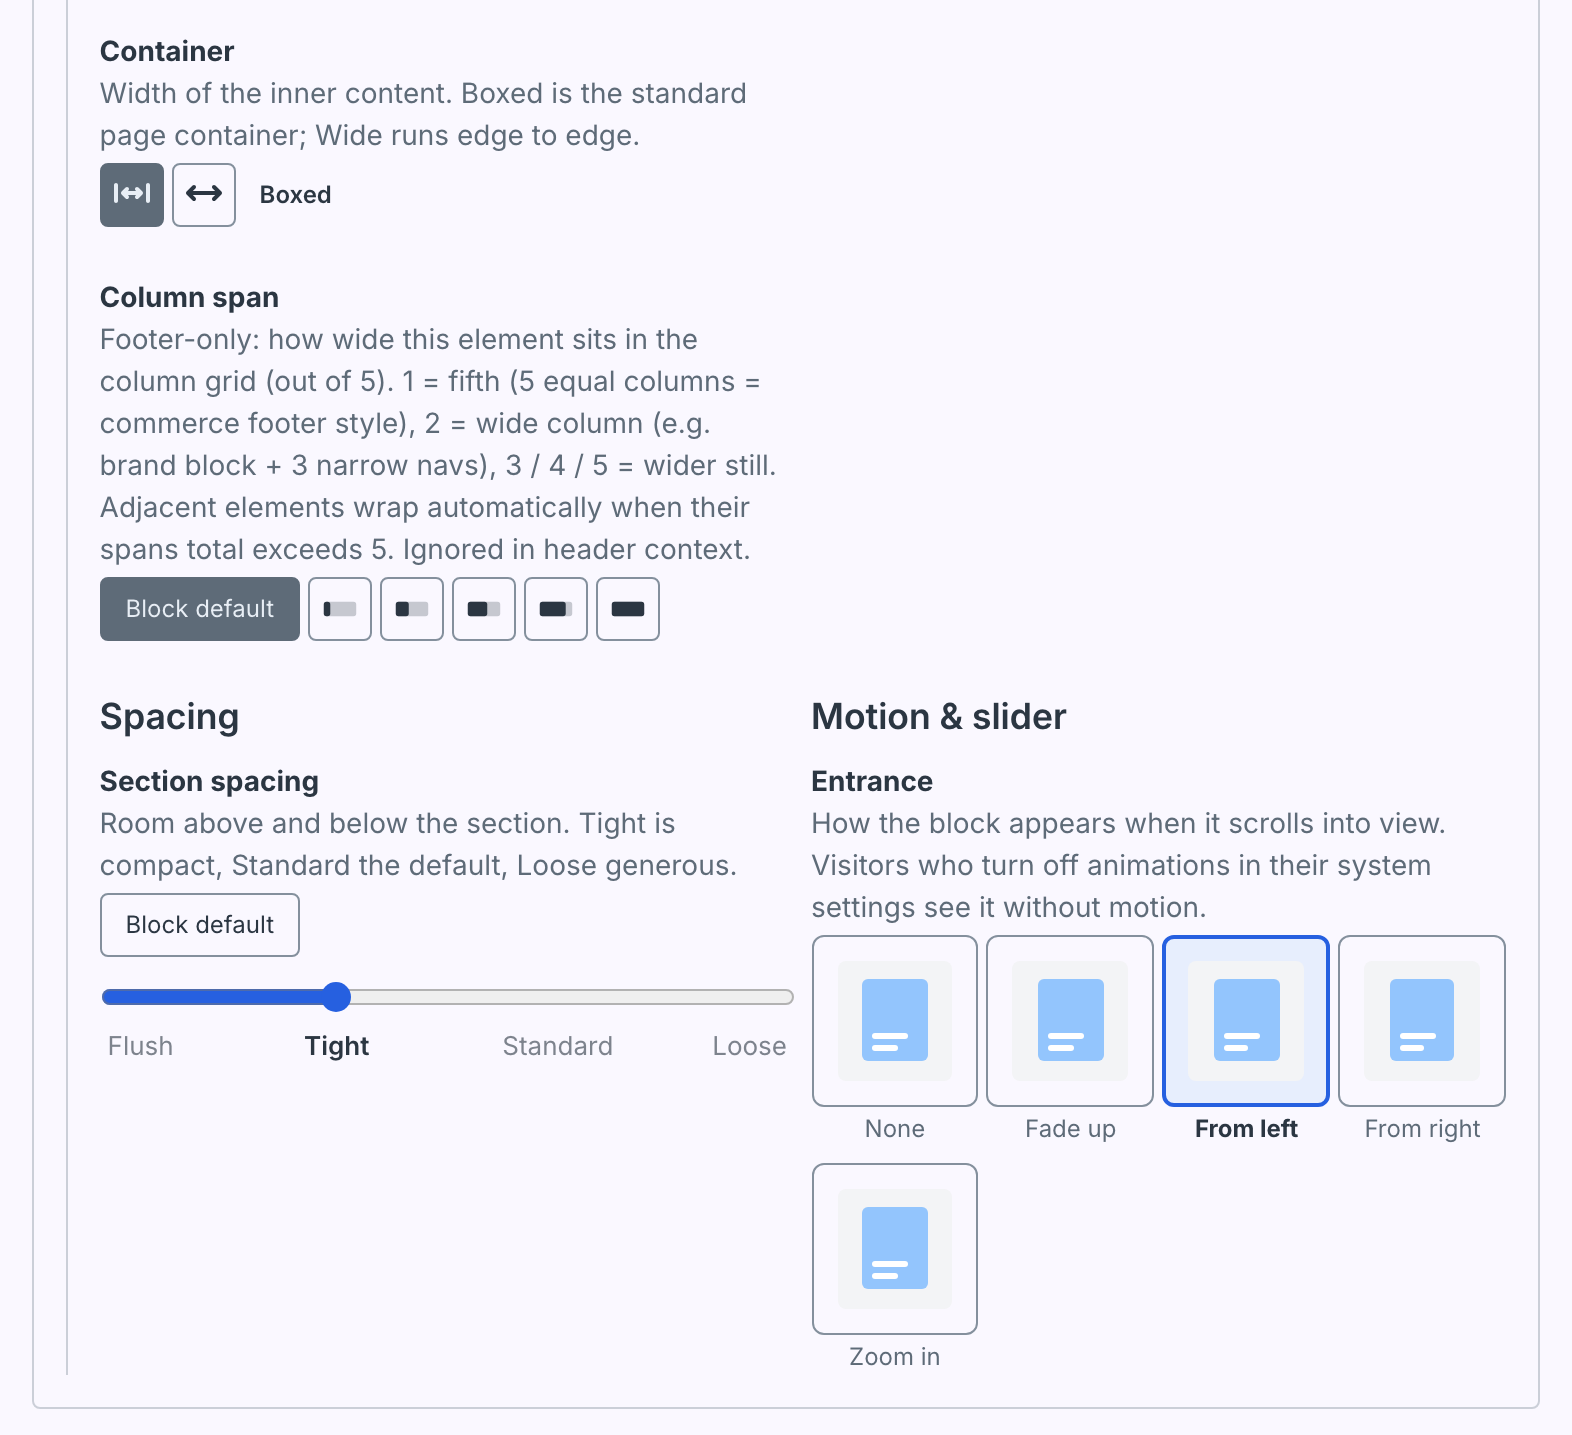
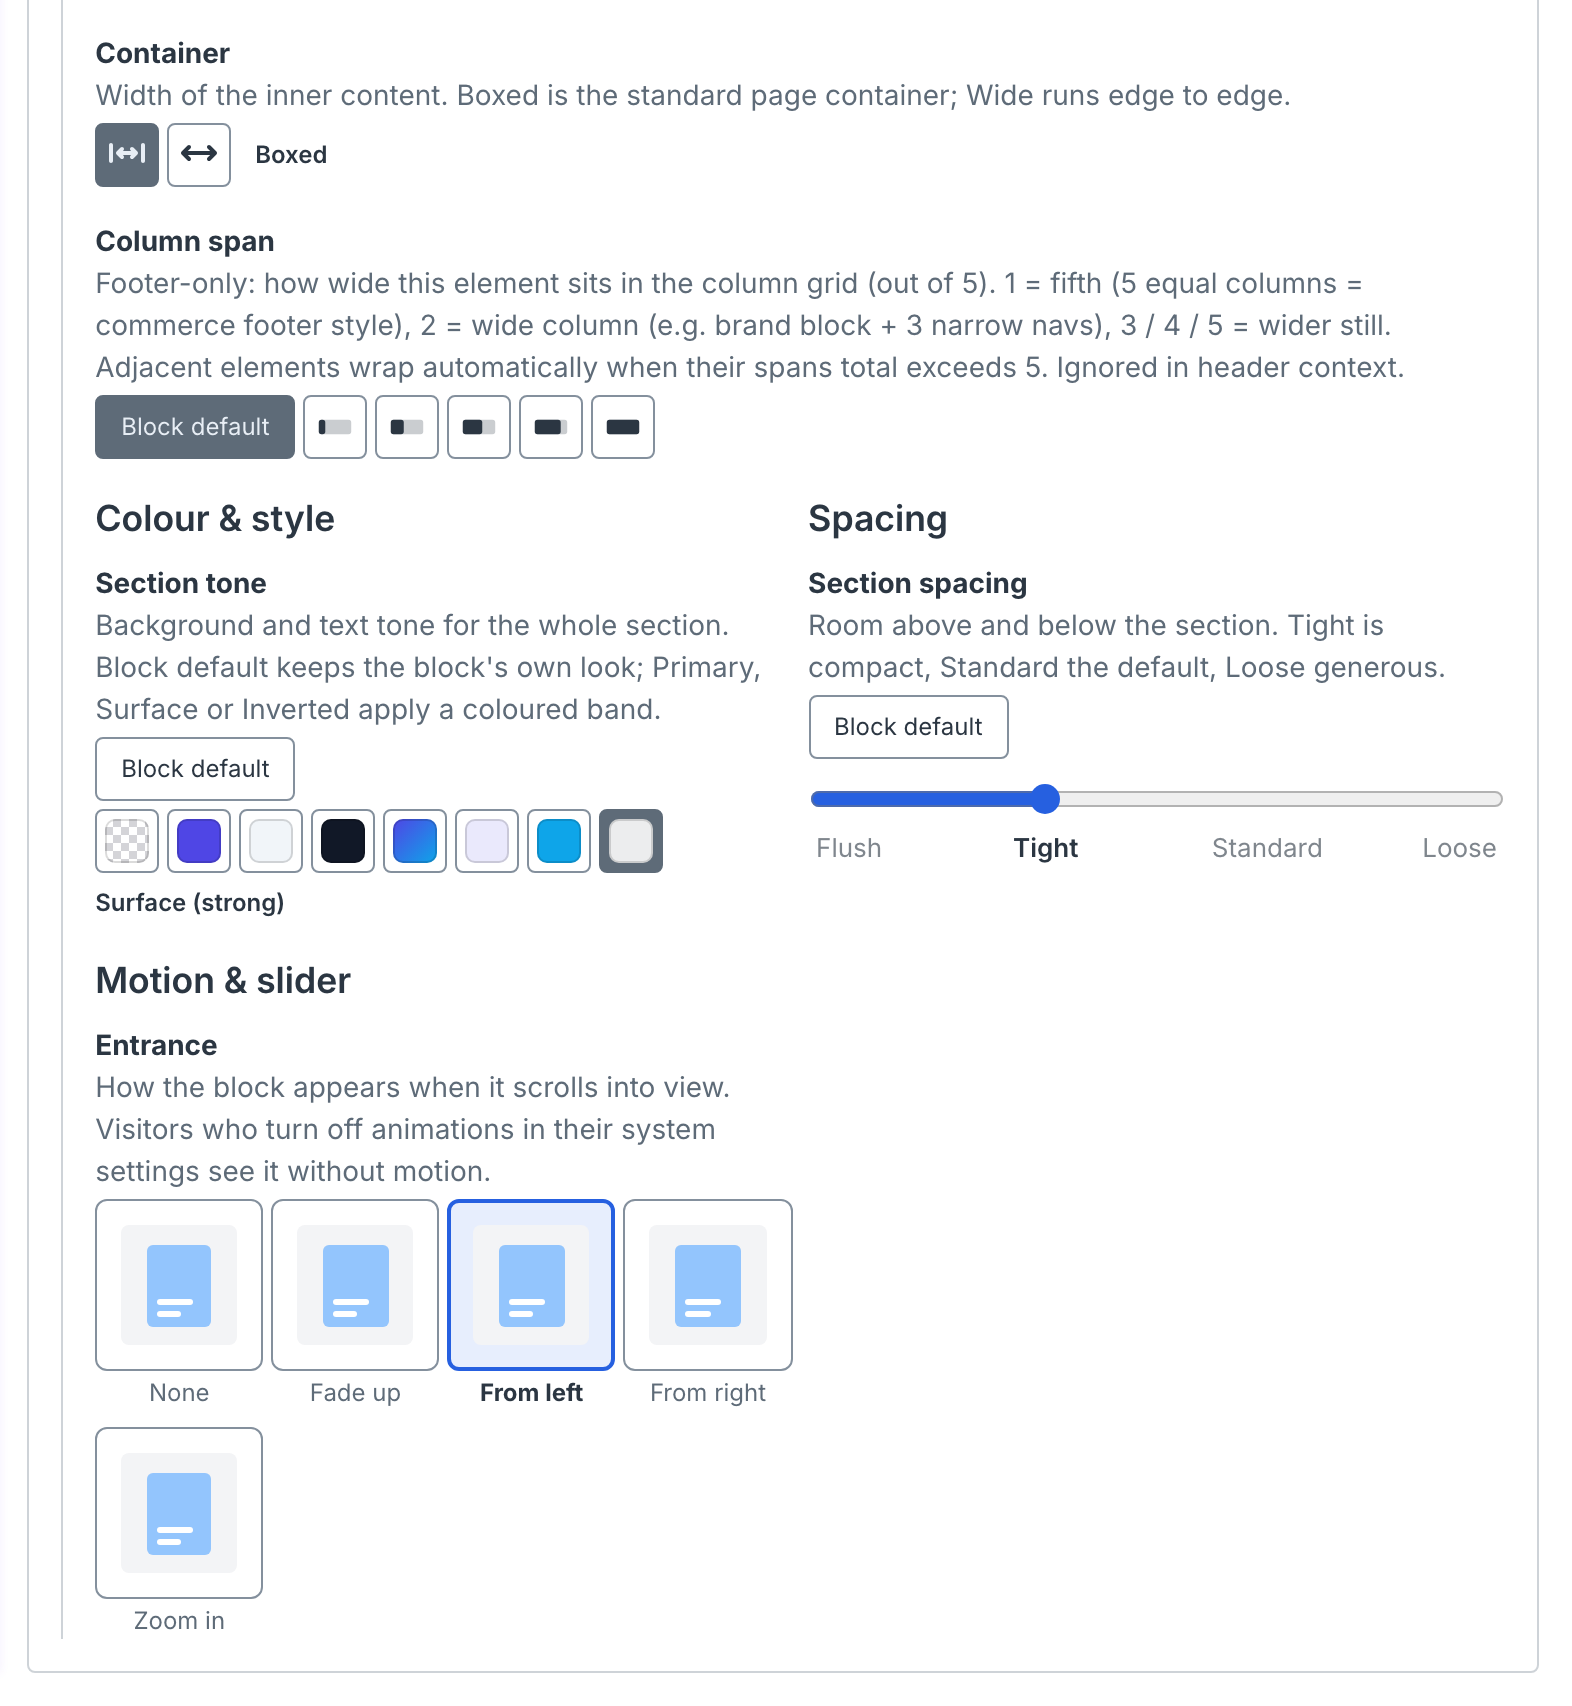
docs: README panel pictures as of 2.0.0-beta.5, layout pictures across the whole row

diff --git a/README.md b/README.md
@@ -8,9 +8,9 @@ One field for every design option of a block. Tone, spacing, layout, columns, al
 - One reader, `craft.designField.of(block)`, works for the Design field, for the old option fields it replaces, and for showcase mock data.
 - Coding agents read and write the field through Craft's own MCP server, with every option and its choices in the schema.
 
-![The Design panel on Craft 6: presets, layout pictures and colour swatches, in sections](resources/screenshots/panel.png)
+![The Design panel on Craft 6: presets, then the Layout section with a picture of each layout across the whole row](resources/screenshots/panel.png)
 
-![Further down the same panel: icon buttons, a slider with named stops and motion cards](resources/screenshots/panel-options.png)
+![Further down the same panel: icon buttons, then colour swatches and a slider with named stops side by side, and motion cards](resources/screenshots/panel-options.png)
 
 ## Which version
 
